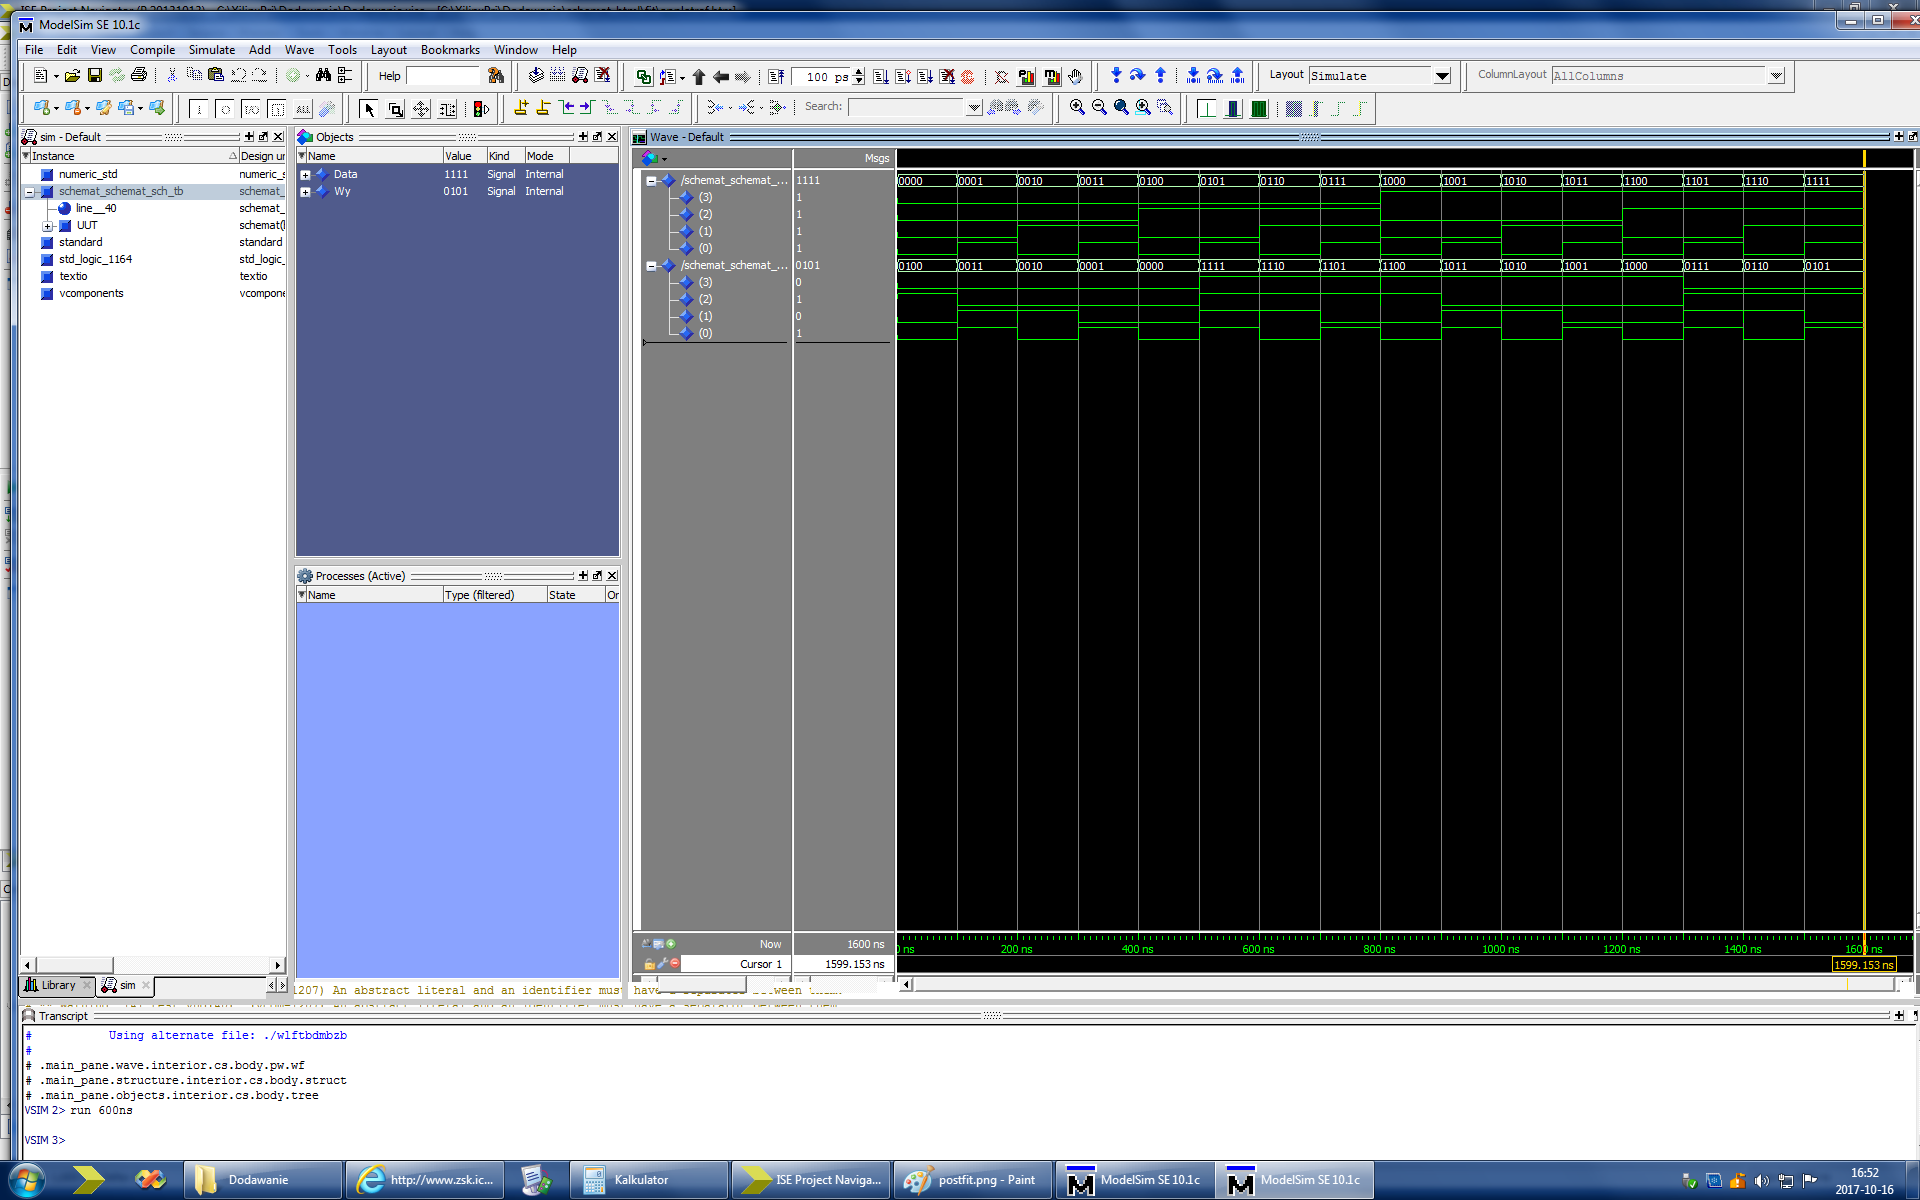
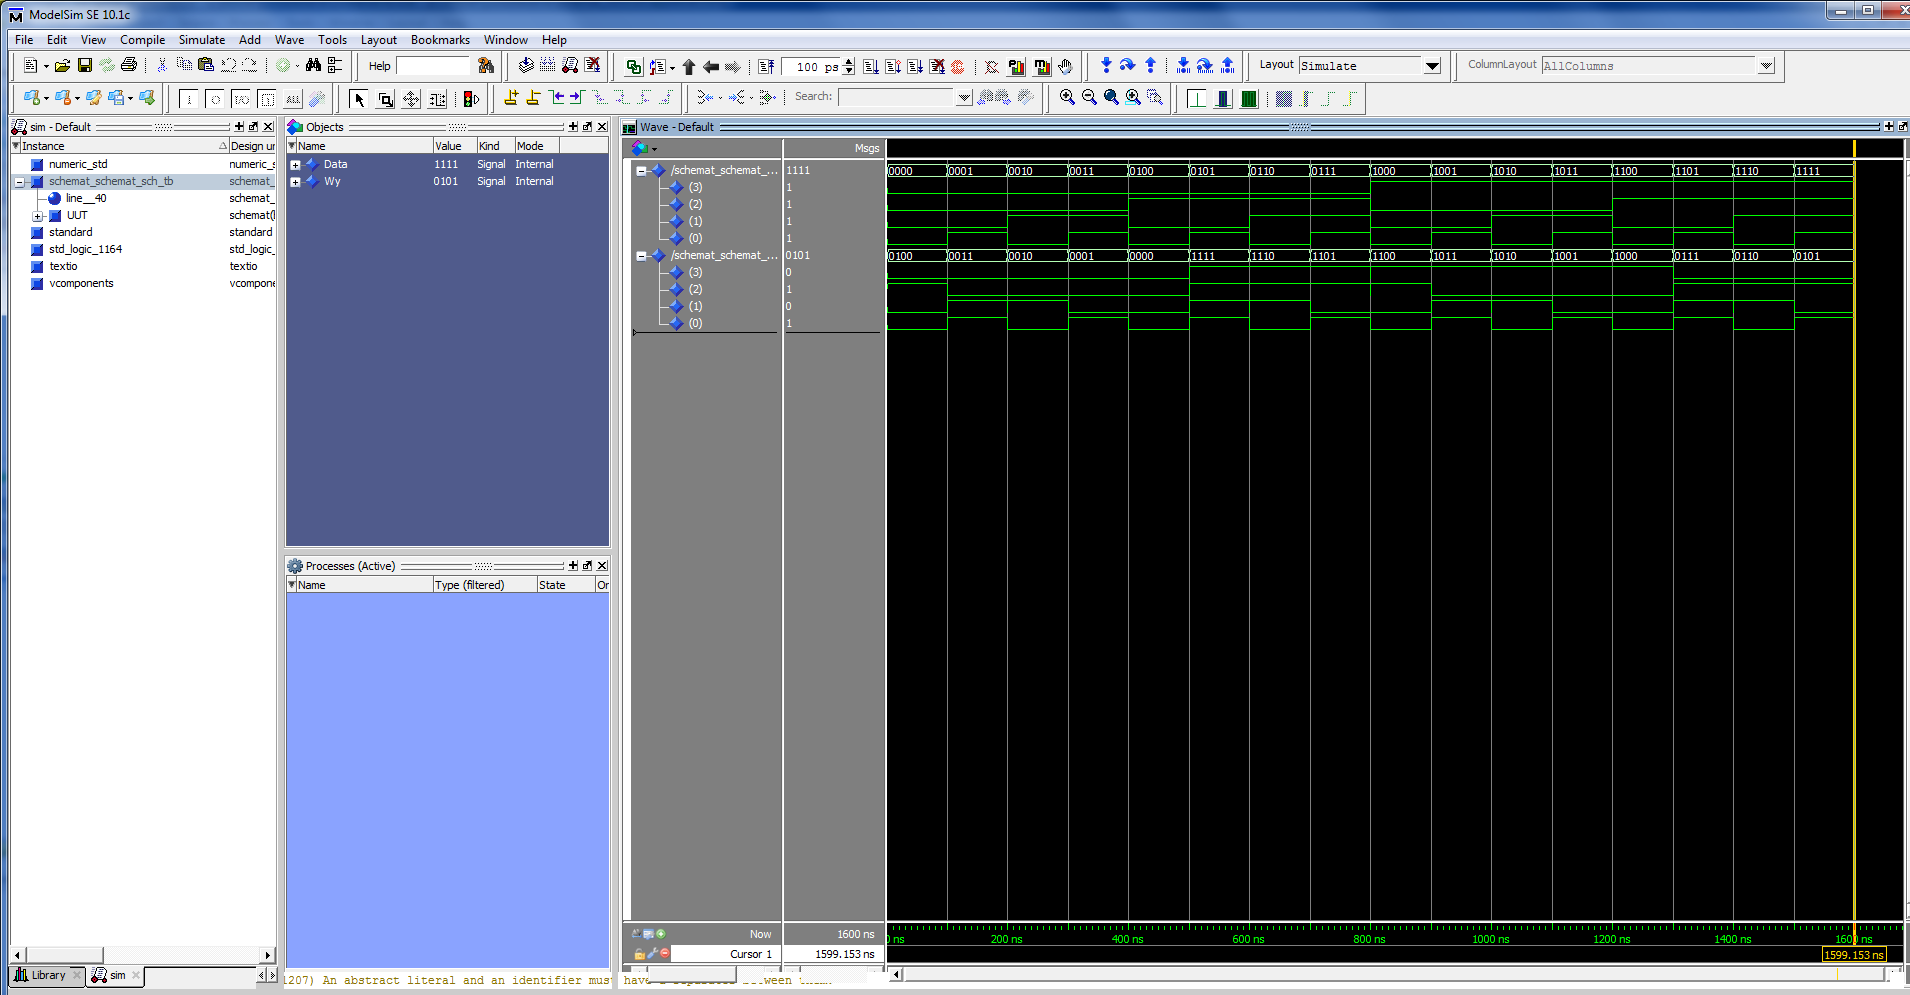
Add simulation part to the report

diff --git a/Reports/Lab1/Report.md b/Reports/Lab1/Report.md
@@ -83,3 +83,49 @@ Po ich stworzeniu uświadomiliśmy sobie, że nie uprościliśmy ich całkowicie
 Schemat wyszedł bardzo nieczytelnie, ponieważ nie znaliśmy całkowitej funkcjonalności ISE (jak np. bramki z zanegowanymi sygnałami wejściowymi).
 
 ![Schemat bramek](schemat.png)
+
+## Symulacja układu
+### Plik VHDL
+
+W pliku VHDL do naszej symulacji zdefiniowaliśmy wektory sygnału wejściowego i wyjściowego:
+
+```
+COMPONENT schemat
+PORT( Data	:	IN	STD_LOGIC_VECTOR (3 DOWNTO 0);
+       Wy	:	OUT	STD_LOGIC_VECTOR (3 DOWNTO 0));
+END COMPONENT;
+
+SIGNAL Data	:	STD_LOGIC_VECTOR (3 DOWNTO 0);
+SIGNAL Wy	:	STD_LOGIC_VECTOR (3 DOWNTO 0);
+```
+
+Przypisaliśmy wektory do odpowiednich portów:
+
+```
+UUT: schemat PORT MAP(
+ Data => Data,
+ Wy => Wy
+);
+```
+
+Oraz napisaliśmy zmianę sygnału wejściowego w czasie (jedna linijka kodu):
+```
+Data <= X"0", X"1" after 100ns, X"2" after 200ns, X"3" after 300ns,
+X"4" after 400ns, X"5" after 500ns, X"6" after 600ns, X"7" after 700ns,
+X"8" after 800ns, X"9" after 900ns, X"A" after 1000ns, X"B" after 1100ns,
+X"C" after 1200ns, X"D" after 1300ns, X"E" after 1400ns, X"F" after 1500ns;
+```
+
+### Symulacja behawioralna
+
+Tak przygotowaną symulację VHDL uruchomiliśmy w trybie symulacji behawioralnej:
+
+![Symulacja behawioralna](behavioural.png)
+
+### Symulacja post-fit
+
+Następnie uruchomiliśmy symulację typu post-fit:
+
+![Symulacja post-fit](postfit.png)
+
+Obie symulacje przeszły poprawnie i wykazały, że stworzony przez nas schemat jest poprawny, więc przeszliśmy do implementacji na płytce.
